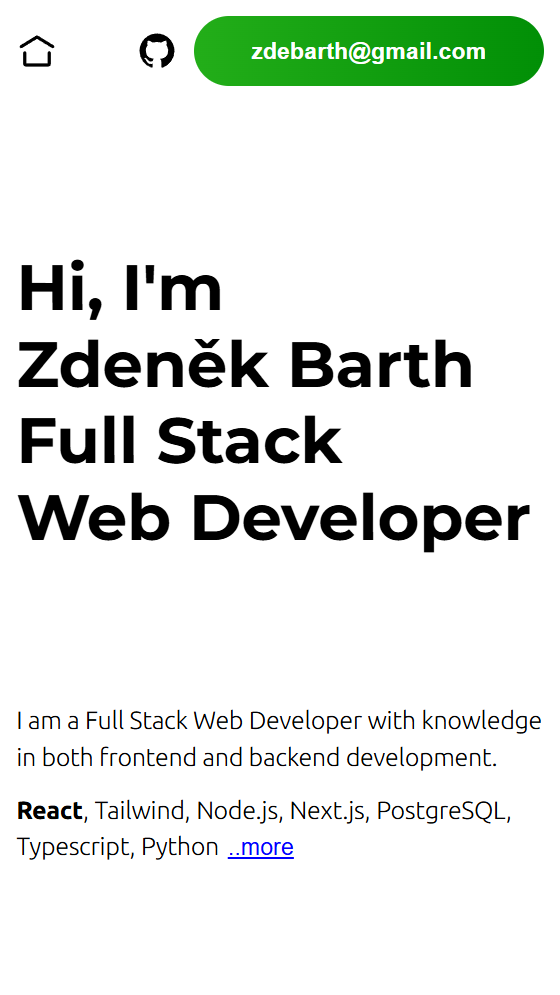
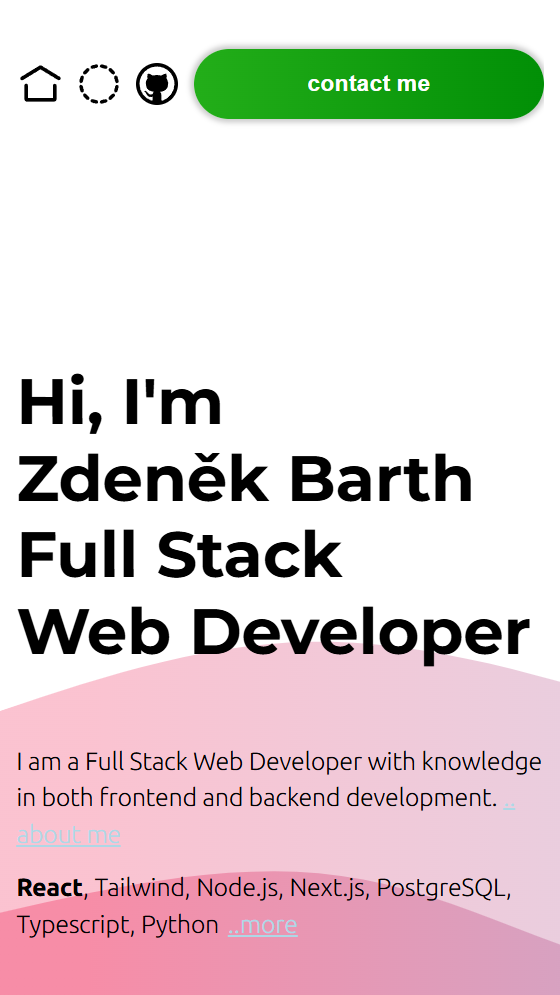
Small UI changes

diff --git a/my-next-app/src/data/cards.ts b/my-next-app/src/data/cards.ts
@@ -18,10 +18,7 @@ export const cards: CardData[] = [
     title: "Personal Website",
     version: "2.0.0",
     update: "09/2025",
-    texts: [
-      "This site.",
-      "Here is React actualy unnecessary. It is static site. I used it only for practice.",
-    ],
+    texts: ["This site."],
     images: ["/images/00/00-001.png", "/images/00/00-002.png"],
     technologies: "React, Next.js, TypeScript, CSS",
     github: "https://github.com/zdebar/017-Personal-Web-Site",

diff --git a/my-next-app/src/components/common/ChevronDownButton.tsx b/my-next-app/src/components/common/ChevronDownButton.tsx
@@ -15,12 +15,12 @@ export default function ChevronDownButton({
       title={title}
       style={{
         textDecoration: "none",
-        width: "50px",
-        height: "50px",
+        width: "40px",
+        height: "40px",
         borderRadius: "50%",
         color: "black",
         position: "absolute",
-        top: "-25px",
+        top: "-20px",
         right: "4px",
         textAlign: "center",
         padding: "10px",

diff --git a/my-next-app/src/components/Header.tsx b/my-next-app/src/components/Header.tsx
@@ -37,7 +37,7 @@ export default function Header() {
                 className="button bg-gradient-secondary shadow my-small"
                 title="contact form"
               >
-                <span>contact me</span>
+                <span>{!formVisible ? "say hi" : "don't say hi"}</span>
               </button>
             </div>
           </div>
